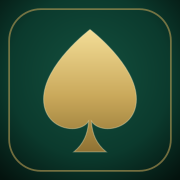
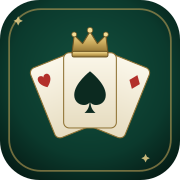
Batak ikon seti: üç oyunu (Batak, Eşli Batak, King) simgeleyen üç kart ve taç
Claude-Session: https://claude.ai/code/session_01EApiDiv61B11Hc2yZ7Nyd2

diff --git a/batak.html b/batak.html
@@ -5,11 +5,11 @@
 <meta name="viewport" content="width=device-width,initial-scale=1,viewport-fit=cover,user-scalable=no">
 <meta name="theme-color" content="#000000">
 <meta name="apple-mobile-web-app-capable" content="yes">
-<meta name="surum" content="20261102-2018">
+<meta name="surum" content="20261102-2026">
 <meta name="apple-mobile-web-app-title" content="Batak">
-<link rel="icon" href="batak-ikon.svg?v=20261102-2018" type="image/svg+xml">
-<link rel="icon" href="batak-ikon-32.png?v=20261102-2018" sizes="32x32" type="image/png">
-<link rel="apple-touch-icon" href="batak-ikon-180.png?v=20261102-2018">
+<link rel="icon" href="batak-ikon.svg?v=20261102-2026" type="image/svg+xml">
+<link rel="icon" href="batak-ikon-32.png?v=20261102-2026" sizes="32x32" type="image/png">
+<link rel="apple-touch-icon" href="batak-ikon-180.png?v=20261102-2026">
 <meta name="apple-mobile-web-app-status-bar-style" content="black-translucent">
 <title>Batak · by uozdil</title>
 <style>
